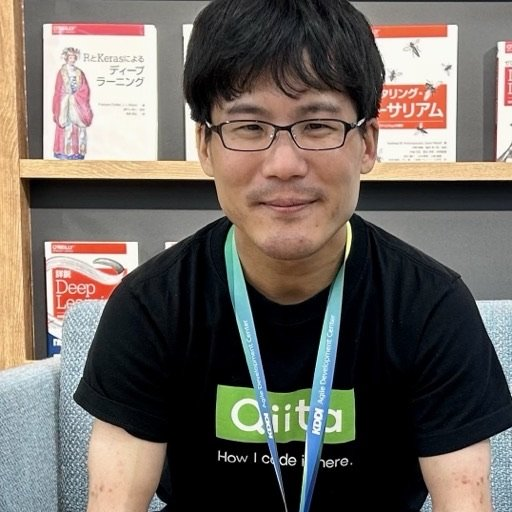
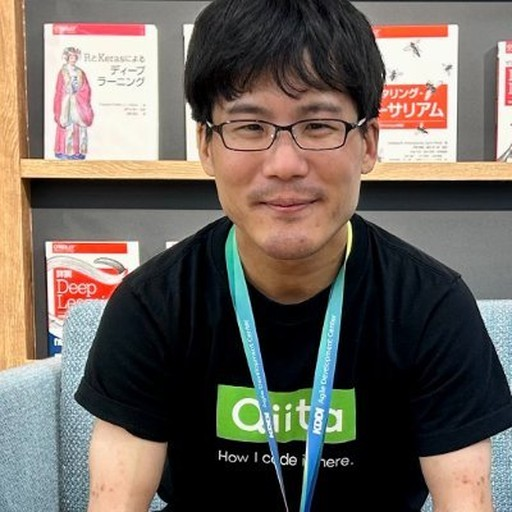
o11y更新

diff --git a/amplify/agent/resource.ts b/amplify/agent/resource.ts
@@ -65,6 +65,11 @@ export function createMarpAgent({ stack, userPool, userPoolClient, nameSuffix }:
     authorizerConfiguration: authConfig,
     environmentVariables: {
       TAVILY_API_KEY: process.env.TAVILY_API_KEY || '',
+      // Observability（OTEL）設定
+      AGENT_OBSERVABILITY_ENABLED: 'true',
+      OTEL_PYTHON_DISTRO: 'aws_distro',
+      OTEL_PYTHON_CONFIGURATOR: 'aws_configurator',
+      OTEL_EXPORTER_OTLP_PROTOCOL: 'http/protobuf',
     },
   });
 

diff --git a/src/App.tsx b/src/App.tsx
@@ -18,7 +18,7 @@ const authComponents = {
           パワポ作るマン　by みのるん
         </h1>
         <p className="text-sm text-gray-500 mt-1">
-          誰でもアカウントを作って利用できます！
+          誰でもアカウントを作って利用できます！（1日50名超えるとエラー）
         </p>
       </div>
     );